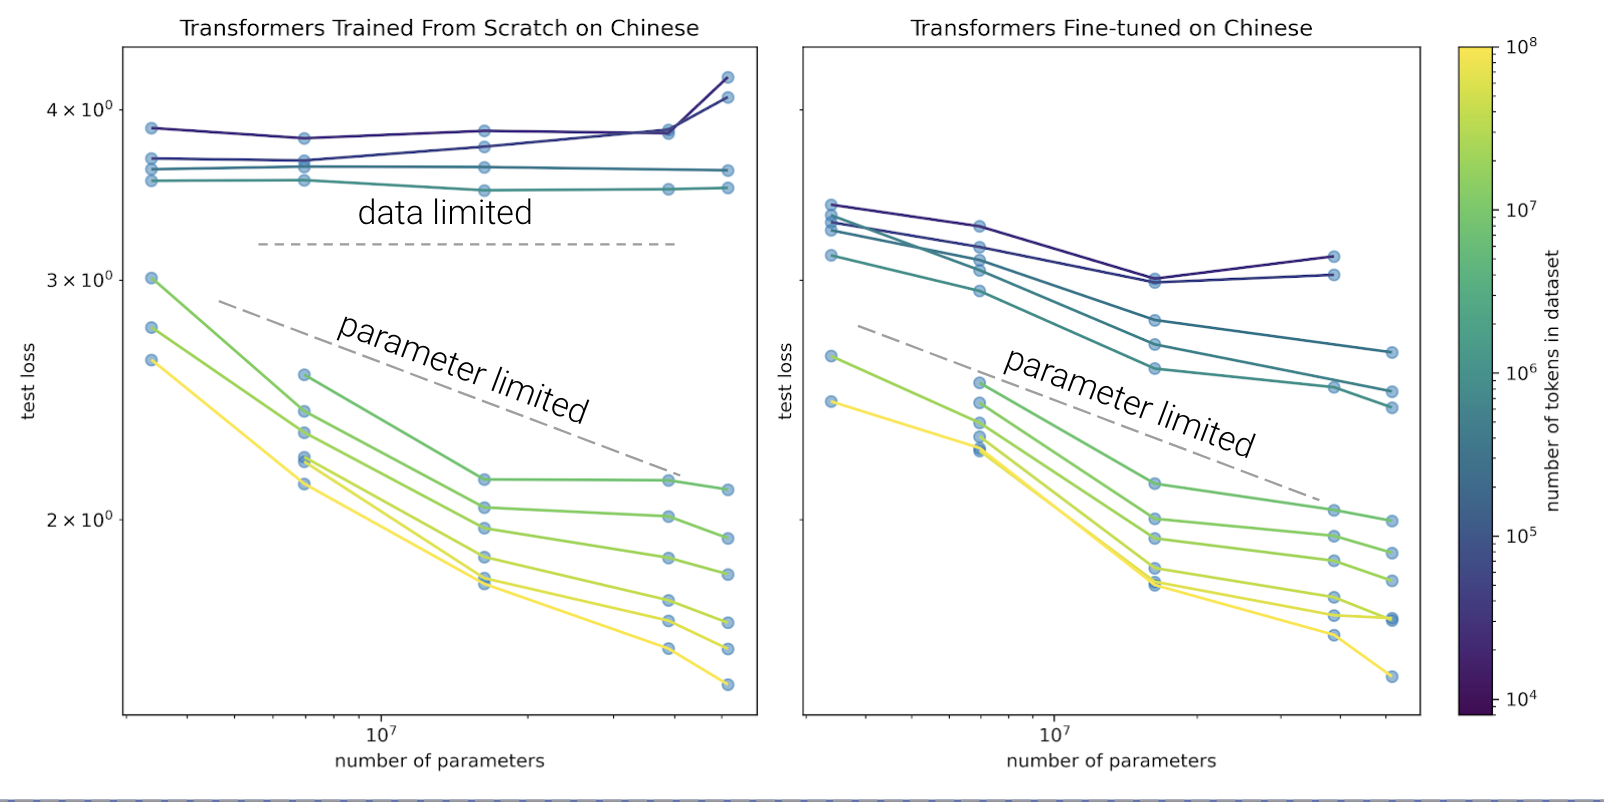
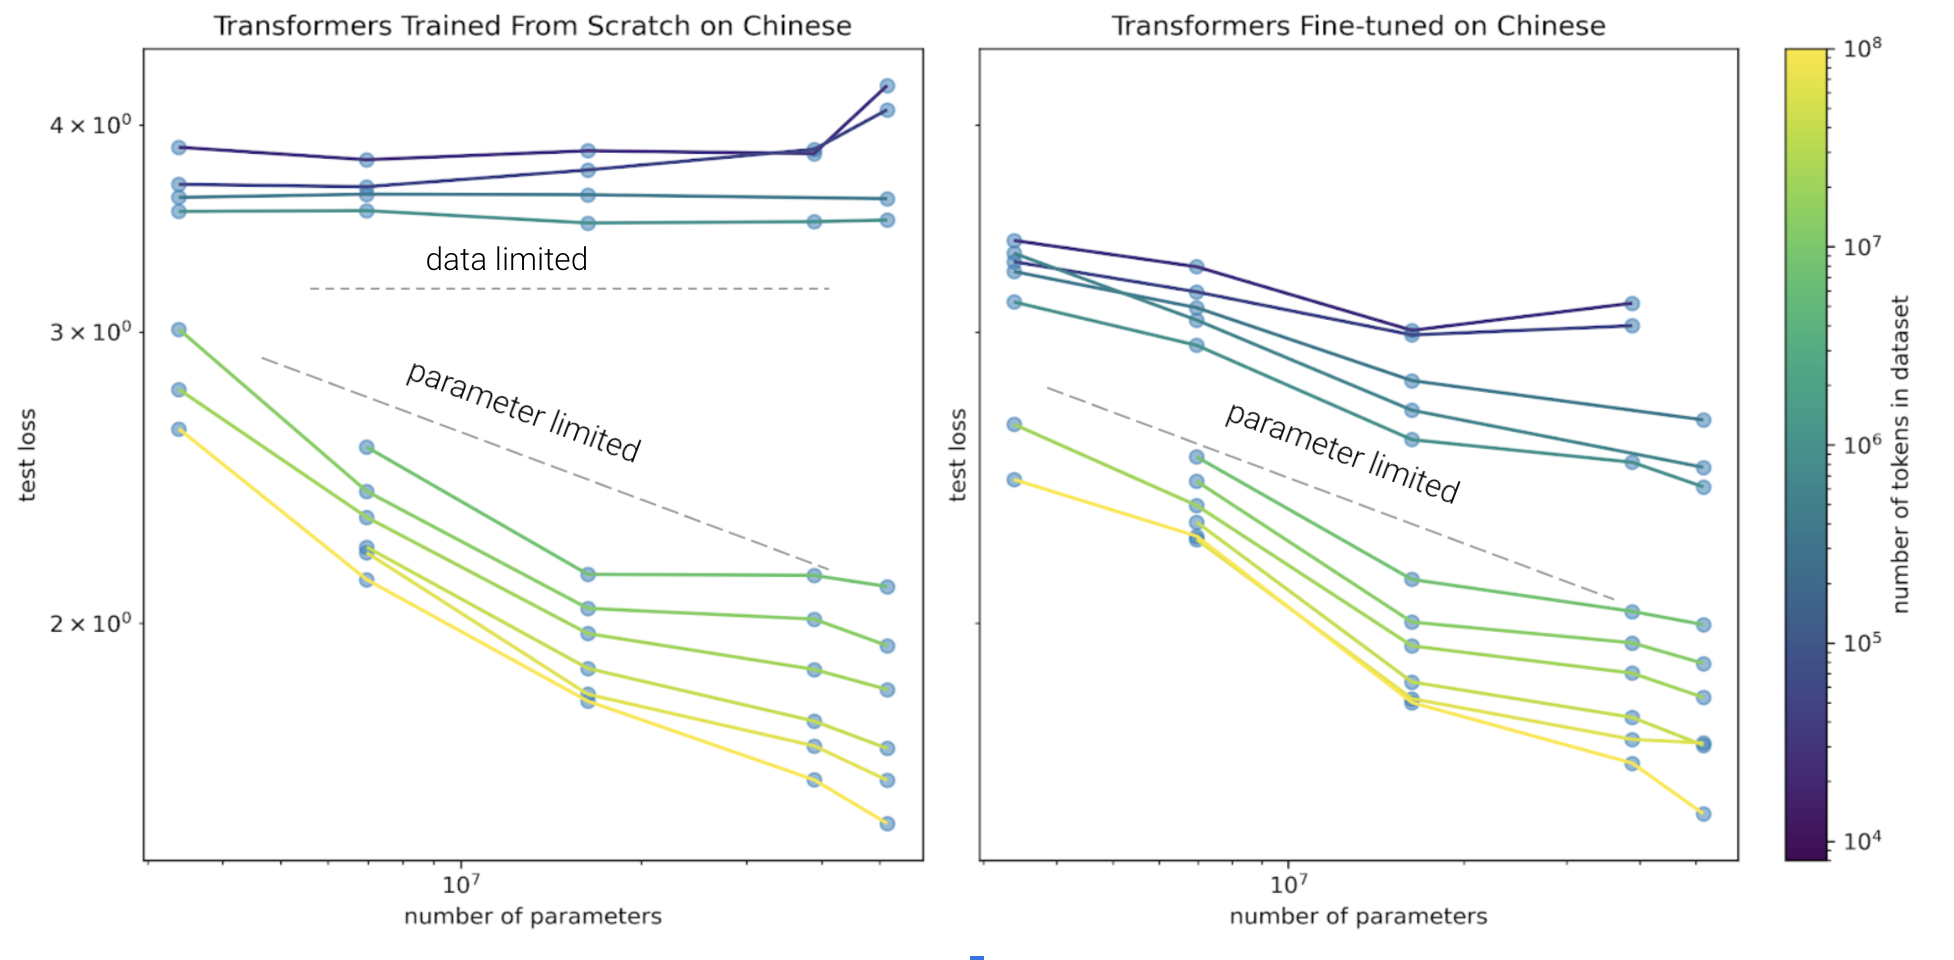
fix

diff --git a/_posts/2021-04-11-scaling-laws-for-language-transfer-learning.md b/_posts/2021-04-11-scaling-laws-for-language-transfer-learning.md
@@ -96,6 +96,10 @@ $D_f /D_e $ measures the fraction of effective data from fine-tuning. A smaller 
 
 I find many of the same trends and relationships found in the Scaling Law for Transfer between text and code, between English and different languages.
 
+
+![image](/images/posts/scaling-laws-for-language-transfer/data-limited.png)
+{: .imgContainer1}
+
 In the low data regime, pre-training is helpful across model sizes, but especially in large model sizes. When using pre-trained models, model performance is *parameter limited*. Model performance is considering parameter limited when the loss continues to decrease as we increase the model size. Model performance is data limited when increasing the number of parameters does not impact the loss. This is evident in the figure above, which shows that as model size increased with a fixed dataset size of Chinese text to fine-tune on, models trained from scratch on Chinese did not improve as much while models that were pre-trained on English improved more to achieve better performance. The flat lines indicate the performance is data limited, while the sloped lines indicates the performance is more limited by the number of parameters.
 
 Lastly, pre-trained models are more compute efficient than training from-scratch across dataset sizes. This is without accounting for the compute costs for the pre-trained model.
